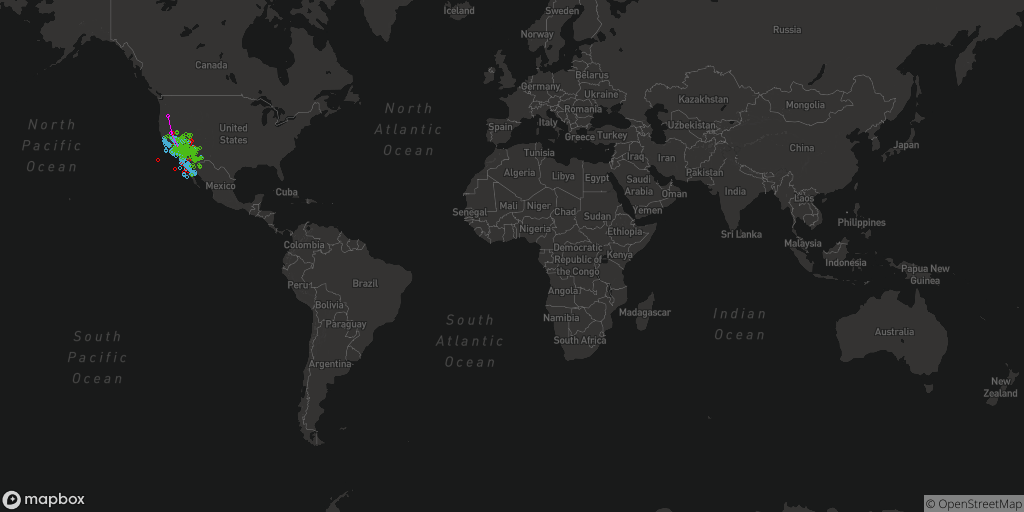
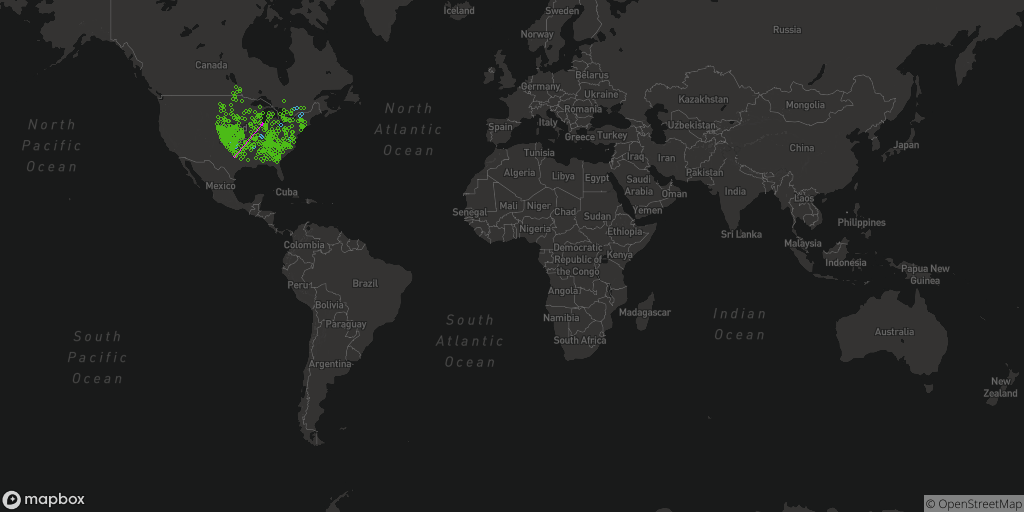
broke query1.py

Changed region(s): [[0.1562, 0.1875, 0.3125, 0.3438]]

diff --git a/Assignments/program_5/query1.py b/Assignments/program_5/query1.py
@@ -45,6 +45,8 @@ extremes['min_x'] = 0
 extremes['max_y'] = height
 extremes['min_y'] = 0
 
+mh = mongoHelper()
+
 #checks if argv will be used
 if(len(sys.argv) > 1):    
     start_pt = sys.argv[1]
@@ -54,15 +56,12 @@ if(len(sys.argv) > 1):
     picked_pt2 = True
 
     #get coords of start,end
-    start =  mh.get_doc_by_keyword('airports','ap_iata',start_pt)
-    start_coords = mh.get_coordinates(start[0])
+    start =  mh.get_doc_by_keyword('airports','properties.ap_iata',start_pt)
+    start_coords = (start[0]['geometry']['coordinates'][1],start[0]['geometry']['coordinates'][0])
+    pt_list.append(start_coords)
 
-    end =  mh.get_doc_by_keyword('airports','ap_iata',end_pt)
-    end_coords = mh.get_coordinates(end[1]) 
-
-
-
-mh = mongoHelper()
+    end =  mh.get_doc_by_keyword('airports','properties.ap_iata',end_pt)
+    end_coords = (end[0]['geometry']['coordinates'][1],end[0]['geometry']['coordinates'][0])
 
 screen.blit(bg, (0, 0))
 pygame.display.flip()
@@ -95,15 +94,16 @@ while running:
             pt_list.append(closest)
             start_coords = closest
             if(mh._haversine(start_coords[1],start_coords[0],end_coords[1],end_coords[0])<radius):
-                pt_list.append(end_coords)
                 done = True
 
 
     if converted_to_x_y == False and done == True:
+        pt_list.append(end_coords)
+        print(pt_list)
         for pt in pt_list:
             adj = {'volcanos':None,'earthquakes':None,'meteorites':None}
             for f in feature_list:
-                result_list = mh.get_features_near_me(f,(lon,lat),radius)
+                result_list = mh.get_features_near_me(f,(pt[1],pt[0]),radius)
                 
                 extremes,points = find_extremes(result_list, width, height)
 
